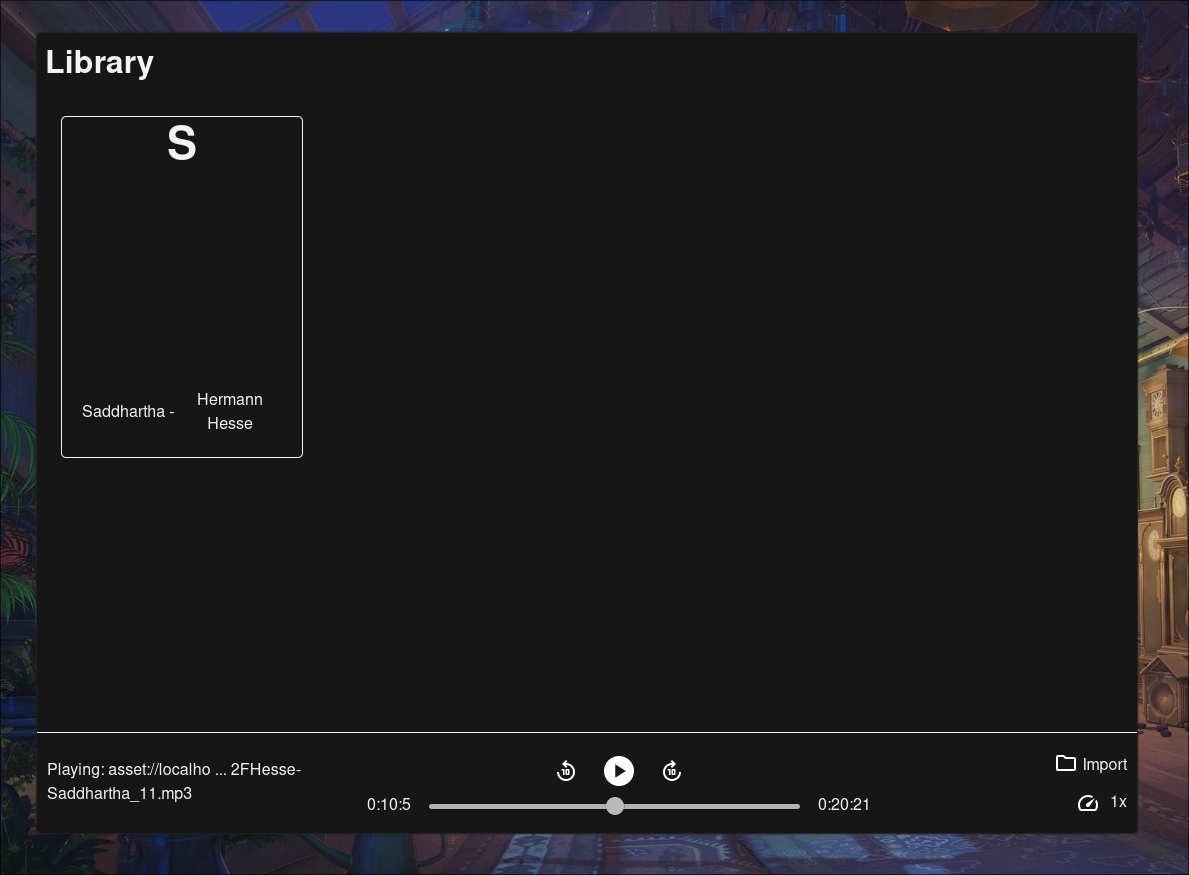
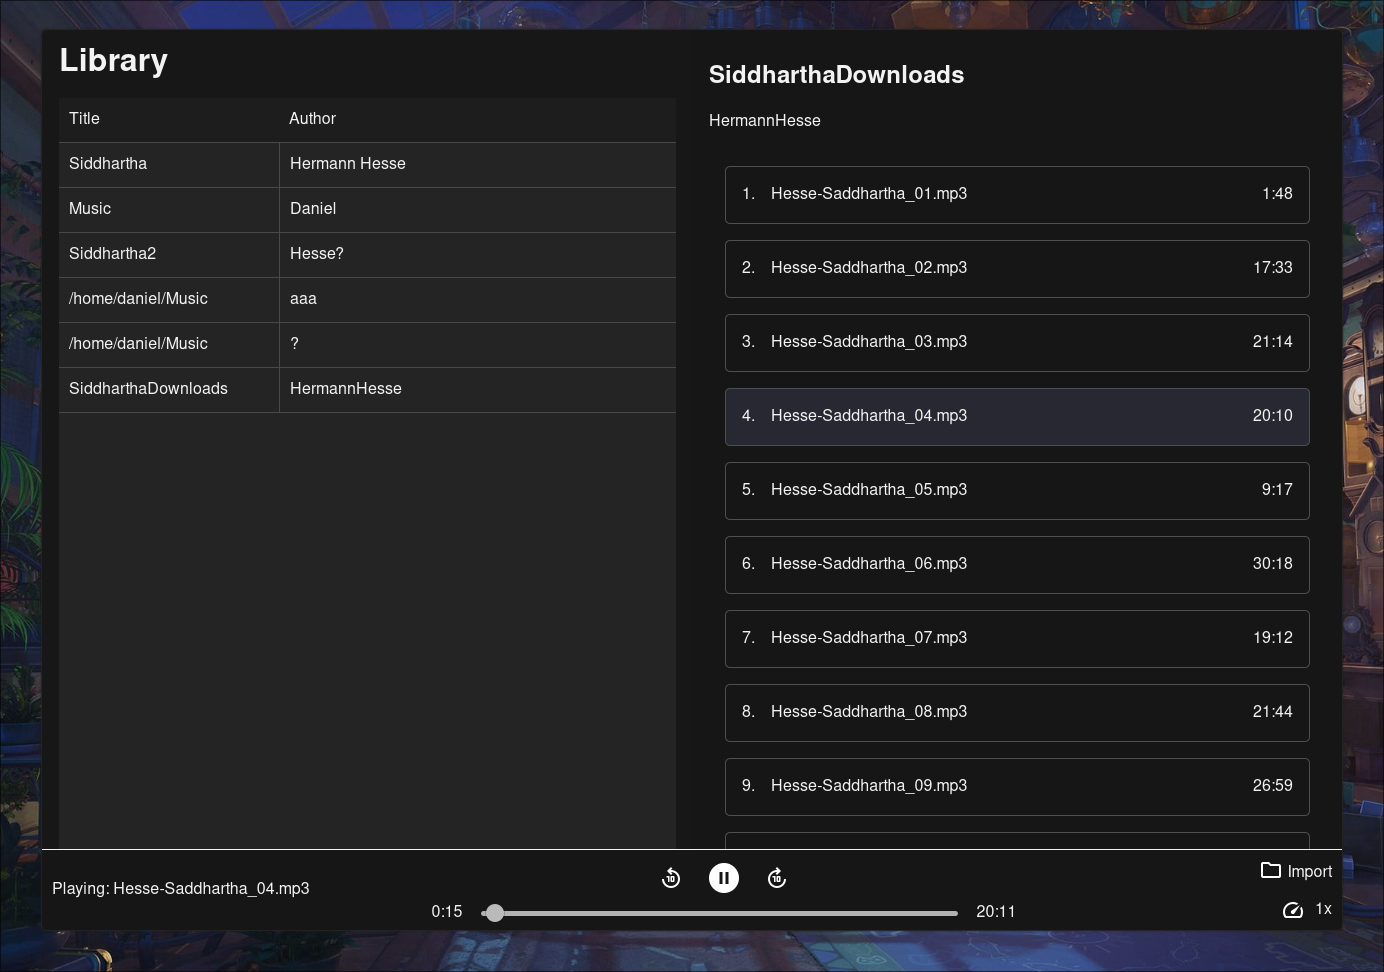
split layout

diff --git a/src/components/Library.vue b/src/components/Library.vue
@@ -1,30 +1,36 @@
 <template>
-<div v-if="!selectedBook">
-	<h1>Library</h1>
-	<!-- let's do a grid of book shaped divs, each has a large capital letter of the title[0] and then the title and author at the bottom -->
-	<div class="book-grid">
-	<div v-for="book in library" class="book" @click="showBookDetail(book)">
-		<div class="book-capital">{{ book.title[0] }}</div>
-		<span class="metadata">
-		<div class="book-title">{{ book.title }}</div>
-		&nbsp;-&nbsp;
-		<div class="book-author">{{ book.author }}</div>
-		</span>
-	</div>
-	</div>
-</div>
-<div v-if="selectedBook" class="detail-modal">
-	<div class="modal-content">
-	<h2>{{ selectedBook.title }}</h2>
-	<p>{{ selectedBook.author }}</p>
-	<!-- chapters -->
-	<div class="chapters">
-		<div v-for="chapter in selectedBook.chapters" class="chapter" @click="playChapter(chapter.file)">
-			{{ chapter.title }}
-			{{ chapter.length }}s
+<div class="library">
+	<div class="books">
+		<h1>Library</h1>
+		<!-- let's do a grid of book shaped divs, each has a large capital letter of the title[0] and then the title and author at the bottom -->
+		<div class="book-grid">
+		<!-- a head with names of the columns -->
+			<div class="book-grid-head">
+				<div class="book-grid-head-column">Title</div>
+				<div class="book-grid-head-column">Author</div>
+			</div>
+			<div v-for="book in library" class="book" @click="showBookDetail(book)">
+				<div class="cell book-title">{{ book.title }}</div>
+				<div class="cell book-author">{{ book.author }}</div>
+			</div>
 		</div>
 	</div>
-	<button @click="closeBookDetail">Close</button>
+	<div class="detail-modal">
+		<div v-if="selectedBook" class="modal-background">
+			<div class="modal-content">
+			<h2>{{ selectedBook.title }}</h2>
+			<p>{{ selectedBook.author }}</p>
+			<!-- chapters -->
+			<div class="chapters">
+				<div v-for="(chapter, index) in selectedBook.chapters" :key="index" :class="((playingChapter === chapter.file) ? 'chapter-playing chapter' : 'chapter')" @click="playChapter(chapter.file, chapter.title)">
+					<span>{{ index + 1 }}.</span>
+					<span>{{ chapter.title }}</span>
+					<span>{{ secondsToPrettyTime(chapter.length) }}</span>
+				</div>
+			</div>
+			<button @click="closeBookDetail">Close</button>
+			</div>
+		</div>
 	</div>
 </div>
 </template>
@@ -42,6 +48,7 @@ export default {
 	data() {
 		return {
 			selectedBook: null,
+			playingChapter: null,
 		};
 	},
 	methods: {
@@ -51,9 +58,20 @@ export default {
 		closeBookDetail() {
 			this.selectedBook = null;
 		},
-		playChapter(file) {
-			this.$emit("play-chapter", file);
+		playChapter(file, title) {
+			this.playingChapter = file;
+			this.$emit("play-chapter", file, title);
 		},
+		secondsToPrettyTime(seconds) {
+			const hours = Math.floor(seconds / 3600);
+			const minutes = Math.floor(seconds / 60) % 60;
+			const secondsLeft = seconds % 60;
+			if (hours > 0) {
+				return `${hours}:${minutes}:${secondsLeft.toFixed(0)}`;
+			} else {
+				return `${minutes}:${secondsLeft.toFixed(0)}`;
+			}
+			}
 	},
 };
 </script>

diff --git a/src/styles.css b/src/styles.css
@@ -14,6 +14,13 @@
   -webkit-text-size-adjust: 100%;
 }
 
+body {
+  margin: 0;
+  padding: 0;
+  padding-bottom: 100px;
+  overflow: hidden;
+}
+
 .importDialog {
   position: fixed;
   top: 50%;
@@ -30,36 +37,53 @@
 }
 
 .book-grid {
-  display: grid;
-  grid-template-columns: repeat(auto-fill, minmax(200px, 1fr));
-  grid-gap: 1rem;
-  padding: 1rem;
-}
-
-.book {
   display: flex;
   flex-direction: column;
-  justify-content: space-between;
-  align-items: center;
-  padding: 20px;
-  border: 1px solid #f3f3f3;
-  border-radius: 5px;
-  cursor: pointer;
-  width: 200px;
-  height: 300px;
+  align-items: left;
+  text-align: left;
+  overflow-y: auto;
+  height: 100%;
+  background: #242424;
 }
 
-.book-capital {
-  font-size: 45px;
-  font-weight: 600;
-  margin-bottom: 10px;
+.book-grid-head {
+  display: flex;
+  flex-direction: row;
+  align-items: center;
+  border-bottom: 1px solid #494949;
+  background: #1d1d1d;
+}
+
+.book-grid-head-column {
+  width: 200px;
+  padding: 10px;
+}
+
+/* column in grid */
+.book {
+  display: flex;
+  flex-direction: row;
+  align-items: center;
+  border-bottom: 1px solid #494949;
+}
+.book:hover {
+  background: #1d1d1d;
+  cursor: pointer;
+}
+.book .cell{
+  width: 200px;
+  padding: 10px;
+  border-right: 1px solid #494949;
+}
+.book .cell:last-child{
+  border-right: none;
 }
 
 .metadata {
   display: flex;
-  flex-direction: row;
-  align-items: center;
-  text-align: center;
+  flex-direction: column;
+  align-items: left;
+  text-align: left;
 }
 
 .sticky-bar {
@@ -74,6 +98,7 @@
   flex-direction: row;
   justify-content: space-between;
   align-items: center;
+  height: 60px;
 }
 
 div.one {
@@ -160,4 +185,67 @@ div.progress {
   opacity: 0.7;
   -webkit-transition: 0.2s;
   transition: opacity 0.2s;
+}
+
+/* Detail */
+
+div.library {
+  display: flex;
+  flex-direction: row;
+  overflow-y: scroll;
+  height: 100vh;
+}
+
+div.books {
+  flex: 1;
+  background: #171717;
+  height: auto;
+  overflow-y: auto;
+  padding: 0 1rem;
+  border: 1px solid transparent;
+}
+
+div.detail-modal {
+  display: flex;
+  flex-direction: column;
+  gap: 1rem;
+  padding: 1rem;
+  flex: 1;
+  overflow-y: auto;
+  padding-bottom: 150px;
+}
+
+div.detail-modal div.chapters {
+  display: flex;
+  flex-direction: column;
+  gap: 1rem;
+  padding: 1rem;
+}
+
+div.detail-modal div.chapters div.chapter {
+  display: flex;
+  flex-direction: row;
+  justify-content: space-between;
+  align-items: center;
+  padding: 1rem;
+  border: 1px solid #4e4e4e;
+  border-radius: 5px;
+  cursor: pointer;
+}
+
+div.detail-modal div.chapters div.chapter-playing {
+  background: rgb(40, 40, 50);
+}
+
+div.detail-modal div.chapters div.chapter span:first-child {
+  margin-right: 1rem;
+}
+
+div.detail-modal div.chapters div.chapter span:nth-child(2) {
+  text-align: left;
+}
+
+div.detail-modal div.chapters div.chapter span:last-child {
+  flex: 1;
+  text-align: right;
 }

diff --git a/src/components/Player.vue b/src/components/Player.vue
@@ -14,7 +14,7 @@ let loading = ref(true); // this is for the initial load of the library from rus
 let showSpeed = ref(false);
 
 let appData = reactive({
-  library: [],
+  library: reactive([]),
   current_speed: 1,
 });
 
@@ -51,12 +51,8 @@ setInterval(() => {
   }
 }, 1000);
 
-const greetMsg = ref("");
-const name = ref("");
-
+// main audio object
 let audio = ref(null);
-
-const selectedImagePath = ref("");
 
 async function addNew() {
   const selected = await open({
@@ -124,8 +120,10 @@ async function importBookConfirm() {
     if (data === 'OK') {
       // we need to update our appData
       invoke("get_app_data").then((data) => {
+        loading.value = false;
         appData = data;
         console.log('got app data', appData);
+        loading.value = false;
       });
     }
   });
@@ -233,16 +231,12 @@ async function selectAudioFile() {
       }
 }
 
-async function greet() {
-  greetMsg.value = await invoke("greet", { name: name.value });
-  selectAudioFile();
-}
-
-function playChapter(chapter) {
+function playChapter(chapter, title) {
   stats.playing = false;
   console.log('playing chapter', chapter);
   const path = convertFileSrc(chapter);
   stats.currentTrack = path;
+  stats.currentTitle = title;
   stats.playing = true;
   playAudioFile();
 }
@@ -251,7 +245,11 @@ function secondsToPrettyTime(seconds) {
   const hours = Math.floor(seconds / 3600);
   const minutes = Math.floor(seconds / 60) % 60;
   const secondsLeft = seconds % 60;
-  return `${hours}:${minutes}:${secondsLeft.toFixed(0)}`;
+  if (hours > 0) {
+    return `${hours}:${minutes}:${secondsLeft.toFixed(0)}`;
+  } else {
+    return `${minutes}:${secondsLeft.toFixed(0)}`;
+  }
 }
 
 console.log('loaded player', appData);
@@ -284,18 +282,14 @@ loaded.value = true;
       <button @click="importBookConfirm()">OK</button>
     </div>
 
-    <form class="row" @submit.prevent="greet">
-      <input id="greet-input" v-model="name" placeholder="Test" />
-      <button type="submit">TEST</button>
-    </form>
-
     <Library v-if="!loading.value && appData && appData.library" :library="appData.library" @playChapter="playChapter" />
 
     <!-- sticky bar at the bottom with play/pause, rewind, skip, and seek -->
     <div class="sticky-bar">
       <div class="one">
-        <p v-if="!stats.currentTrack">Welcome to Marble</p>
-        <p v-else>Playing: {{ stats.currentTrack.slice(0, 15) }} ... {{ stats.currentTrack.slice(-25) }}</p>
+        <p v-if="!stats.currentTitle">Welcome to Marble</p>
+        <p v-else-if="stats.currentTitle.length <= 43">Playing: {{ stats.currentTitle }}</p>
+        <p v-else>Playing: {{ stats.currentTitle.slice(0, 15) }} ... {{ stats.currentTitle.slice(-25) }}</p>
       </div>
       <div class="wide">
         <div class="controls">
